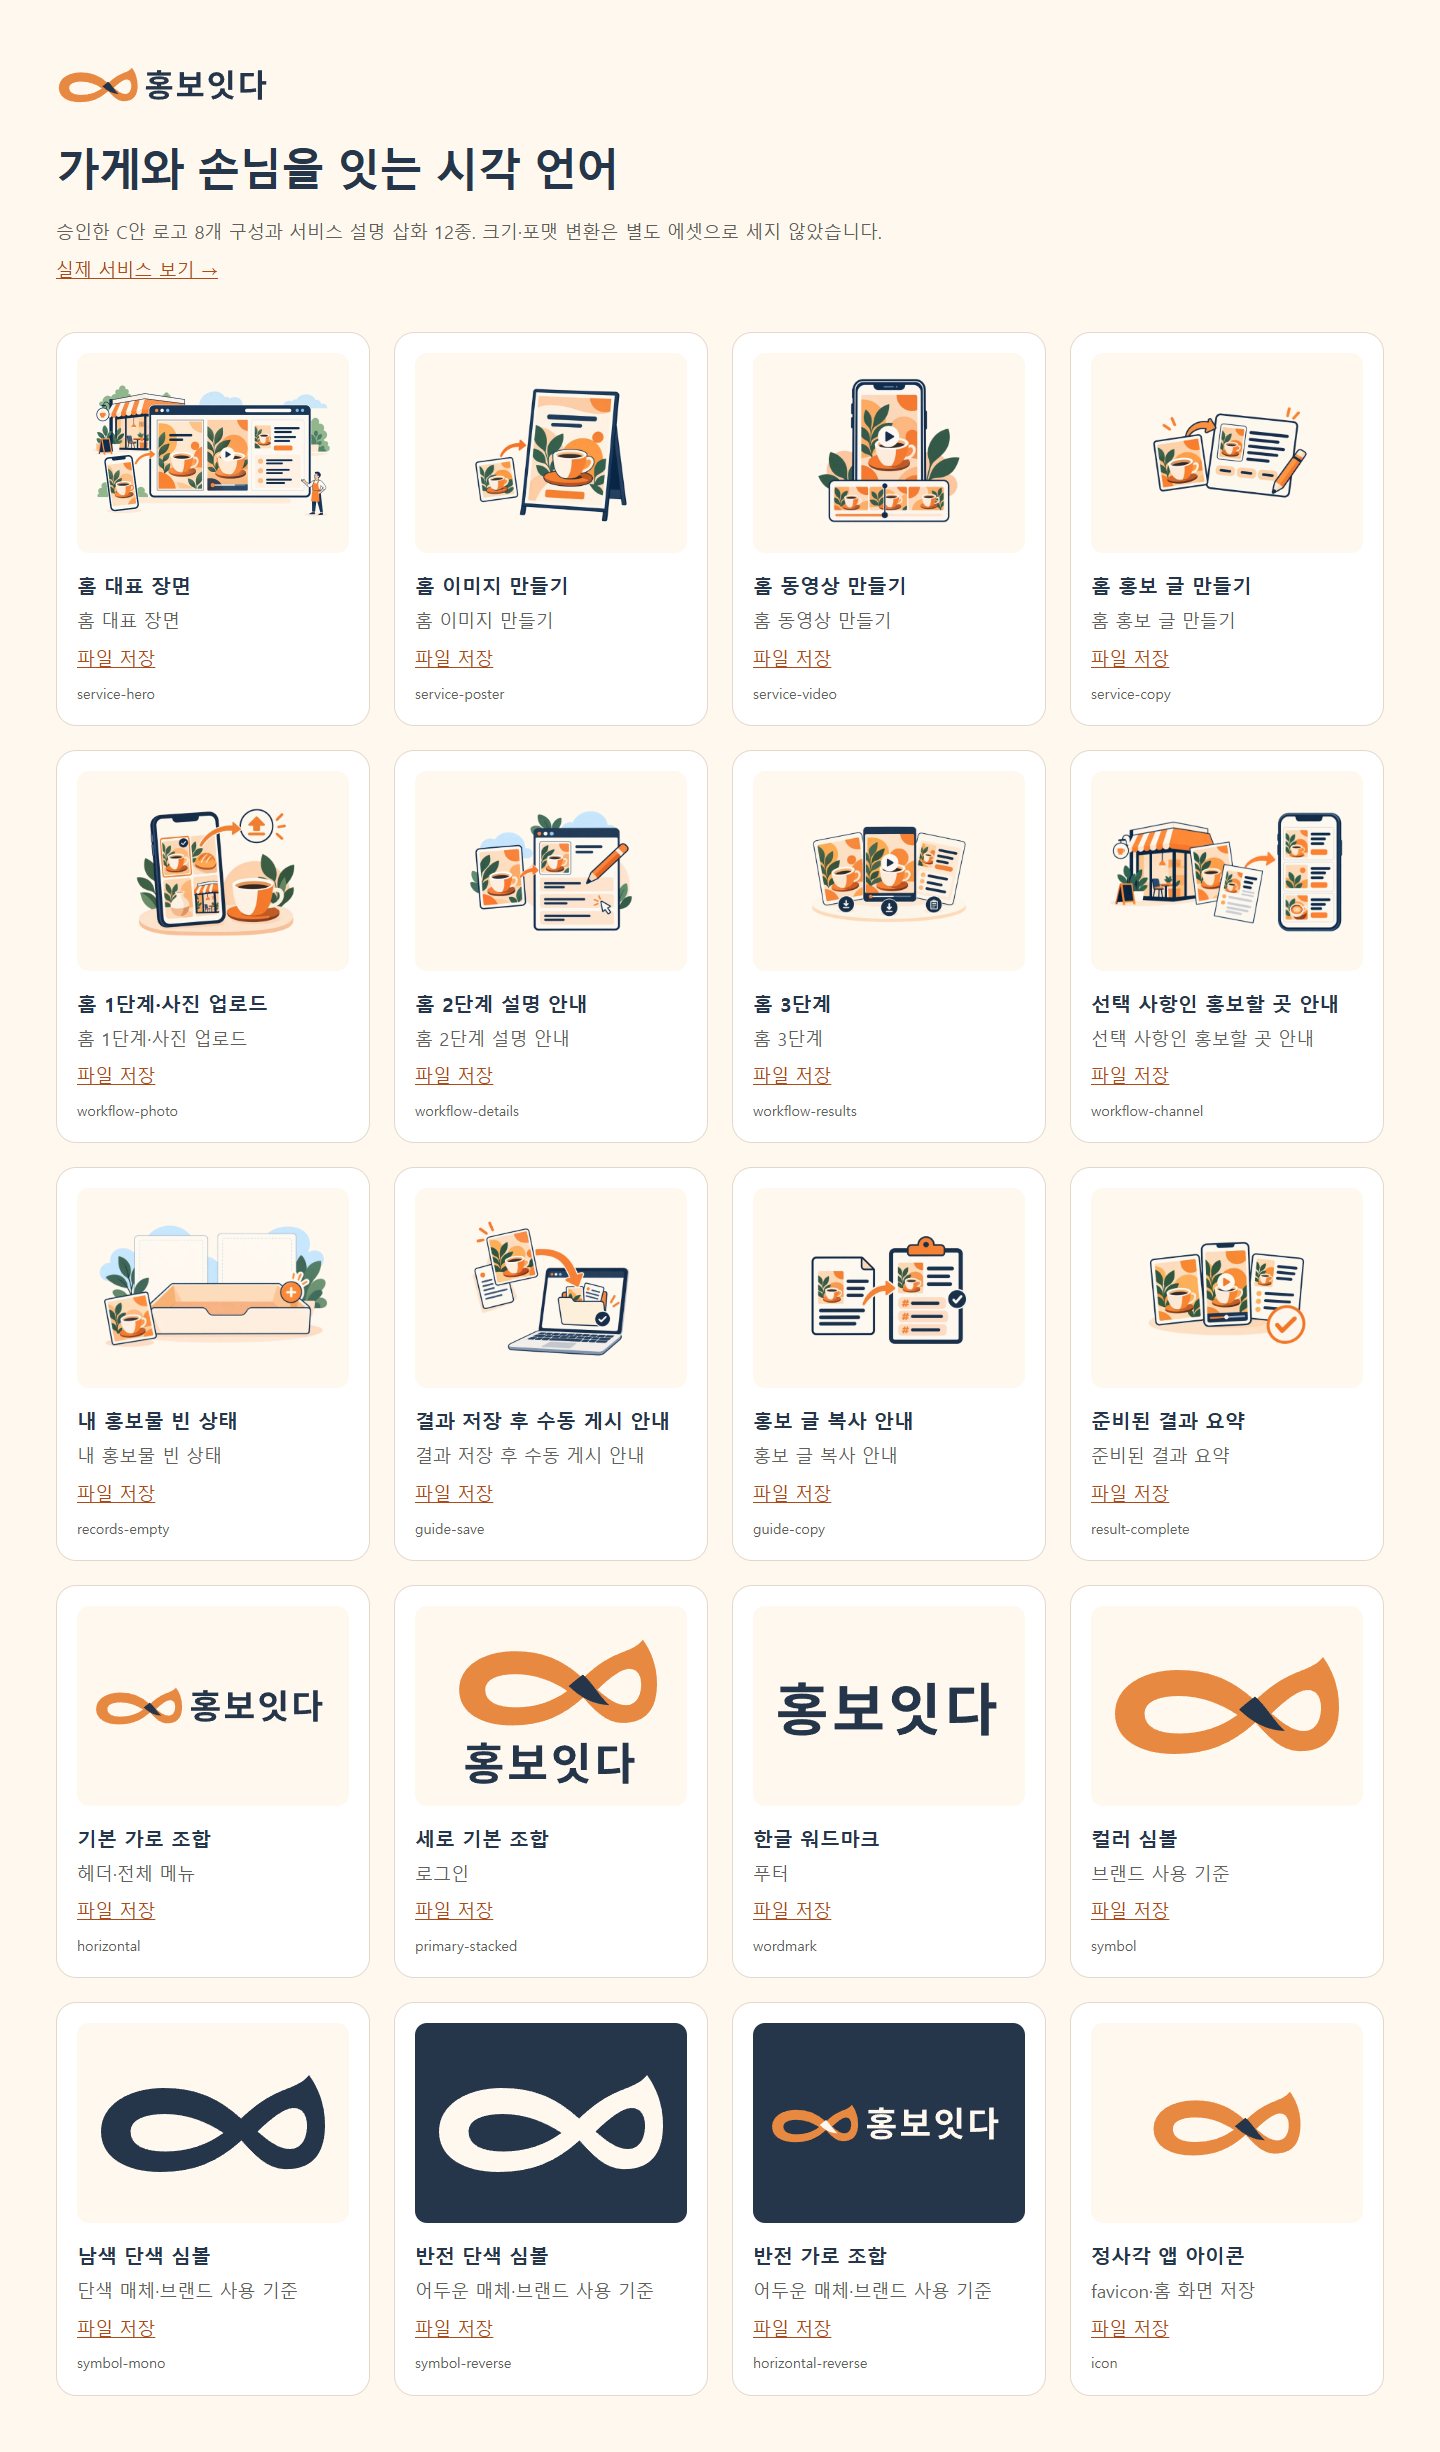
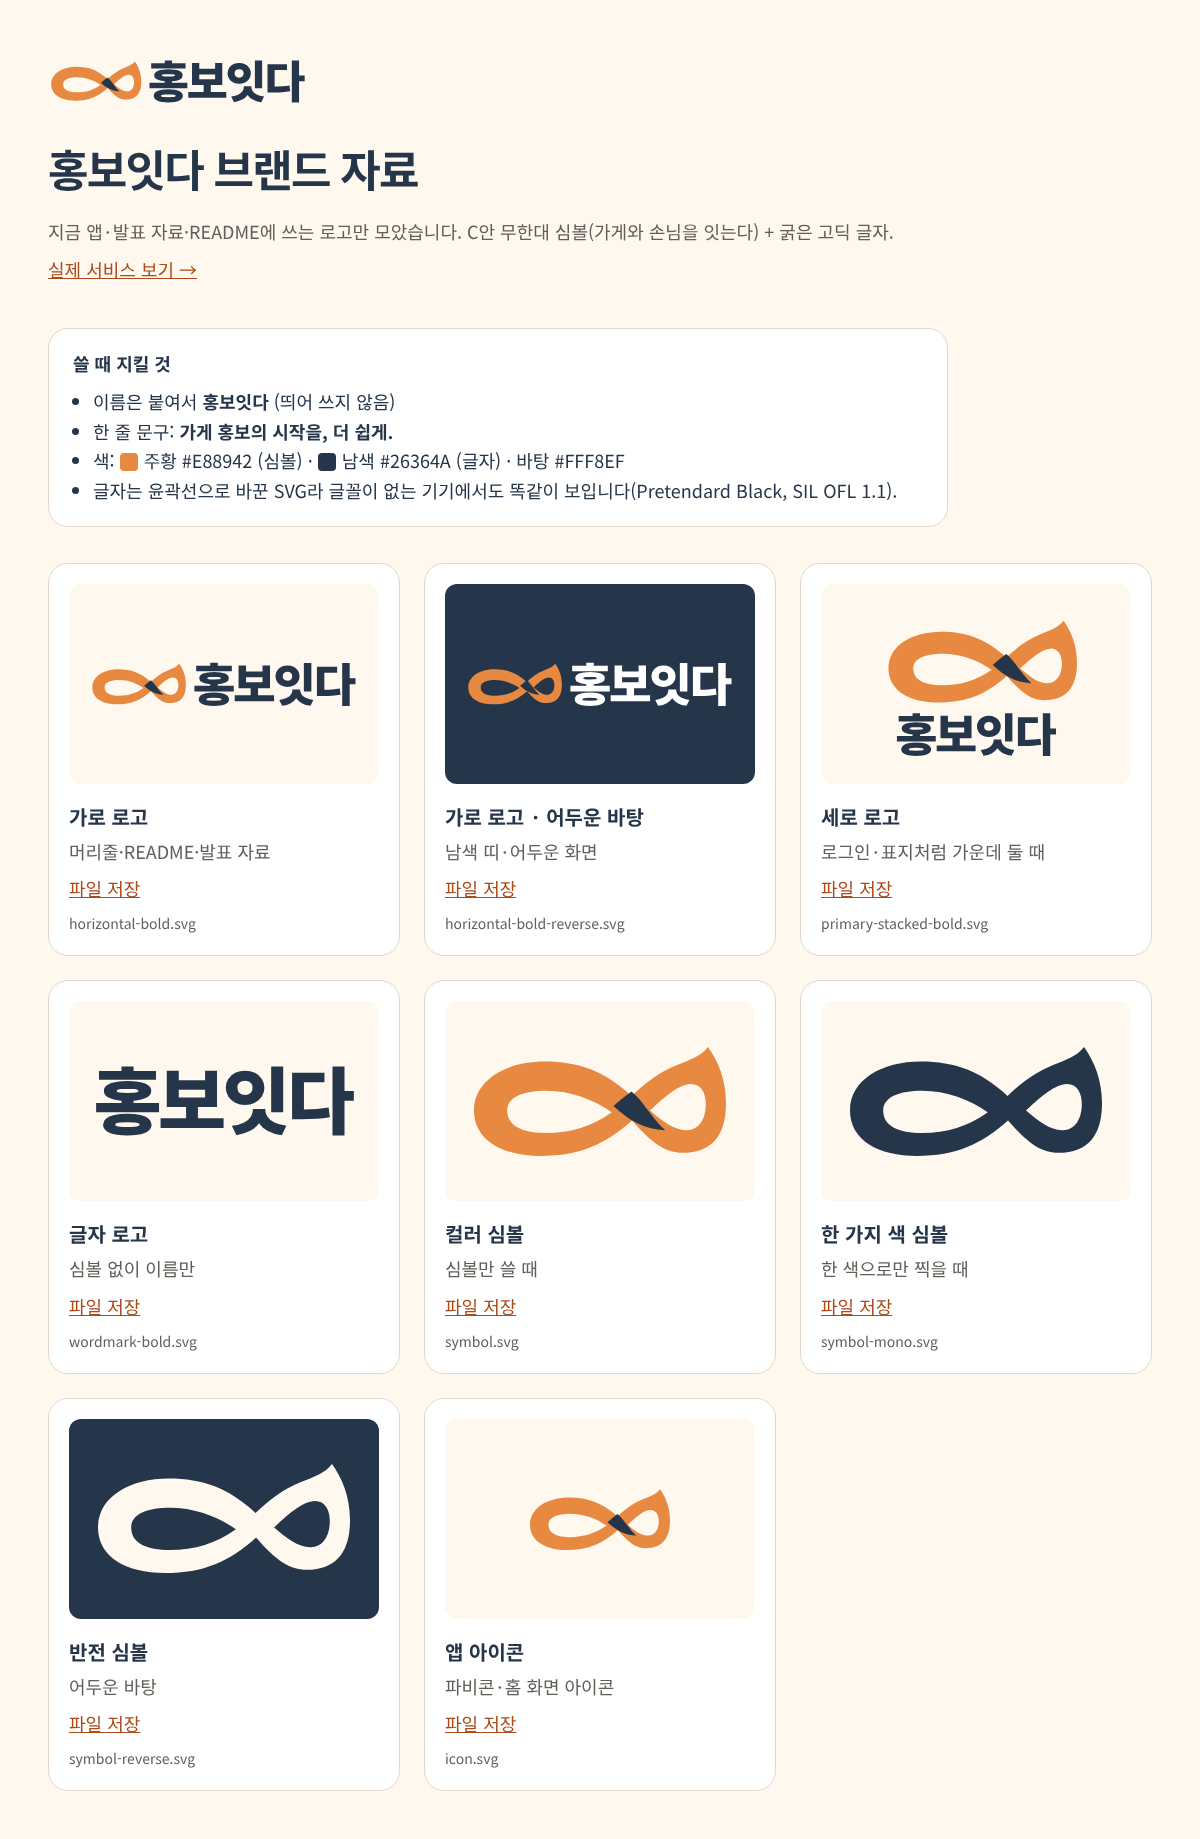
brand: 브랜드 자료 페이지를 지금 쓰는 로고만으로(폐기한 설명 그림 12종 뺌), 세로·글자 로고 굵은 고딕판 추가, 표기·색 규칙
Claude-Session: https://claude.ai/code/session_01G4Ro2EJJYNLyQEDLHLb7w2

diff --git a/ad_prototype/public/brand-library/index.html b/ad_prototype/public/brand-library/index.html
@@ -1,1 +1,18 @@
-<!doctype html><html lang="ko"><head><meta charset="UTF-8"><meta name="viewport" content="width=device-width,initial-scale=1"><meta name="robots" content="noindex,nofollow"><title>홍보잇다 — 브랜드·서비스 에셋</title><style>*{box-sizing:border-box}body{margin:0;padding:clamp(20px,4vw,56px);font:18px/1.65 'Malgun Gothic',sans-serif;color:#26364a;background:#fff8ef}header{max-width:900px;margin-bottom:40px}h1{font-size:clamp(28px,4vw,44px);letter-spacing:-.04em;margin:12px 0}header>img{width:220px;height:auto}a{color:#ad4a19;display:inline-block;min-height:44px;padding:8px 0}main{display:grid;grid-template-columns:repeat(auto-fit,minmax(min(100%,260px),1fr));gap:24px}article{min-width:0;border:1px solid #e4d7cc;background:white;border-radius:20px;padding:20px}.preview{display:flex;align-items:center;justify-content:center;height:200px;background:#fff8ef;border-radius:12px}.preview.dark{background:#26364a}.preview>img{width:100%;height:100%;object-fit:contain;padding:16px}h2{font-size:20px;margin:16px 0 4px}p{margin:0;color:#625e59}small{display:block;font-size:14px;color:#625e59;overflow-wrap:anywhere}a:focus-visible{outline:3px solid #255c9a;outline-offset:4px}</style></head><body><header><img src="/assets/branding/selected/horizontal.svg" alt="홍보잇다"><h1>가게와 손님을 잇는 시각 언어</h1><p>승인한 C안 로고 8개 구성과 서비스 설명 삽화 12종. 크기·포맷 변환은 별도 에셋으로 세지 않았습니다.</p><a href="/">실제 서비스 보기 →</a></header><main><article><div class="preview "><img src="/assets/illustrations/phase4b/service-hero.webp" alt="홈 대표 장면" width="480" height="320"></div><h2>홈 대표 장면</h2><p>홈 대표 장면</p><a href="/assets/illustrations/phase4b/service-hero.webp" download>파일 저장</a><small>service-hero</small></article><article><div class="preview "><img src="/assets/illustrations/phase4b/service-poster.webp" alt="홈 이미지 만들기" width="480" height="320"></div><h2>홈 이미지 만들기</h2><p>홈 이미지 만들기</p><a href="/assets/illustrations/phase4b/service-poster.webp" download>파일 저장</a><small>service-poster</small></article><article><div class="preview "><img src="/assets/illustrations/phase4b/service-video.webp" alt="홈 동영상 만들기" width="480" height="320"></div><h2>홈 동영상 만들기</h2><p>홈 동영상 만들기</p><a href="/assets/illustrations/phase4b/service-video.webp" download>파일 저장</a><small>service-video</small></article><article><div class="preview "><img src="/assets/illustrations/phase4b/service-copy.webp" alt="홈 홍보 글 만들기" width="480" height="320"></div><h2>홈 홍보 글 만들기</h2><p>홈 홍보 글 만들기</p><a href="/assets/illustrations/phase4b/service-copy.webp" download>파일 저장</a><small>service-copy</small></article><article><div class="preview "><img src="/assets/illustrations/phase4b/workflow-photo.webp" alt="홈 1단계·사진 업로드" width="480" height="320"></div><h2>홈 1단계·사진 업로드</h2><p>홈 1단계·사진 업로드</p><a href="/assets/illustrations/phase4b/workflow-photo.webp" download>파일 저장</a><small>workflow-photo</small></article><article><div class="preview "><img src="/assets/illustrations/phase4b/workflow-details.webp" alt="홈 2단계 설명 안내" width="480" height="320"></div><h2>홈 2단계 설명 안내</h2><p>홈 2단계 설명 안내</p><a href="/assets/illustrations/phase4b/workflow-details.webp" download>파일 저장</a><small>workflow-details</small></article><article><div class="preview "><img src="/assets/illustrations/phase4b/workflow-results.webp" alt="홈 3단계" width="480" height="320"></div><h2>홈 3단계</h2><p>홈 3단계</p><a href="/assets/illustrations/phase4b/workflow-results.webp" download>파일 저장</a><small>workflow-results</small></article><article><div class="preview "><img src="/assets/illustrations/phase4b/workflow-channel.webp" alt="선택 사항인 홍보할 곳 안내" width="480" height="320"></div><h2>선택 사항인 홍보할 곳 안내</h2><p>선택 사항인 홍보할 곳 안내</p><a href="/assets/illustrations/phase4b/workflow-channel.webp" download>파일 저장</a><small>workflow-channel</small></article><article><div class="preview "><img src="/assets/illustrations/phase4b/records-empty.webp" alt="내 홍보물 빈 상태" width="480" height="320"></div><h2>내 홍보물 빈 상태</h2><p>내 홍보물 빈 상태</p><a href="/assets/illustrations/phase4b/records-empty.webp" download>파일 저장</a><small>records-empty</small></article><article><div class="preview "><img src="/assets/illustrations/phase4b/guide-save.webp" alt="결과 저장 후 수동 게시 안내" width="480" height="320"></div><h2>결과 저장 후 수동 게시 안내</h2><p>결과 저장 후 수동 게시 안내</p><a href="/assets/illustrations/phase4b/guide-save.webp" download>파일 저장</a><small>guide-save</small></article><article><div class="preview "><img src="/assets/illustrations/phase4b/guide-copy.webp" alt="홍보 글 복사 안내" width="480" height="320"></div><h2>홍보 글 복사 안내</h2><p>홍보 글 복사 안내</p><a href="/assets/illustrations/phase4b/guide-copy.webp" download>파일 저장</a><small>guide-copy</small></article><article><div class="preview "><img src="/assets/illustrations/phase4b/result-complete.webp" alt="준비된 결과 요약" width="480" height="320"></div><h2>준비된 결과 요약</h2><p>준비된 결과 요약</p><a href="/assets/illustrations/phase4b/result-complete.webp" download>파일 저장</a><small>result-complete</small></article><article><div class="preview "><img src="/assets/branding/selected/horizontal.svg" alt="기본 가로 조합" width="480" height="320"></div><h2>기본 가로 조합</h2><p>헤더·전체 메뉴</p><a href="/assets/branding/selected/horizontal.svg" download>파일 저장</a><small>horizontal</small></article><article><div class="preview "><img src="/assets/branding/selected/primary-stacked.svg" alt="세로 기본 조합" width="480" height="320"></div><h2>세로 기본 조합</h2><p>로그인</p><a href="/assets/branding/selected/primary-stacked.svg" download>파일 저장</a><small>primary-stacked</small></article><article><div class="preview "><img src="/assets/branding/selected/wordmark.svg" alt="한글 워드마크" width="480" height="320"></div><h2>한글 워드마크</h2><p>푸터</p><a href="/assets/branding/selected/wordmark.svg" download>파일 저장</a><small>wordmark</small></article><article><div class="preview "><img src="/assets/branding/selected/symbol.svg" alt="컬러 심볼" width="480" height="320"></div><h2>컬러 심볼</h2><p>브랜드 사용 기준</p><a href="/assets/branding/selected/symbol.svg" download>파일 저장</a><small>symbol</small></article><article><div class="preview "><img src="/assets/branding/selected/symbol-mono.svg" alt="남색 단색 심볼" width="480" height="320"></div><h2>남색 단색 심볼</h2><p>단색 매체·브랜드 사용 기준</p><a href="/assets/branding/selected/symbol-mono.svg" download>파일 저장</a><small>symbol-mono</small></article><article><div class="preview dark"><img src="/assets/branding/selected/symbol-reverse.svg" alt="반전 단색 심볼" width="480" height="320"></div><h2>반전 단색 심볼</h2><p>어두운 매체·브랜드 사용 기준</p><a href="/assets/branding/selected/symbol-reverse.svg" download>파일 저장</a><small>symbol-reverse</small></article><article><div class="preview dark"><img src="/assets/branding/selected/horizontal-reverse.svg" alt="반전 가로 조합" width="480" height="320"></div><h2>반전 가로 조합</h2><p>어두운 매체·브랜드 사용 기준</p><a href="/assets/branding/selected/horizontal-reverse.svg" download>파일 저장</a><small>horizontal-reverse</small></article><article><div class="preview "><img src="/assets/branding/selected/icon.svg" alt="정사각 앱 아이콘" width="480" height="320"></div><h2>정사각 앱 아이콘</h2><p>favicon·홈 화면 저장</p><a href="/assets/branding/selected/icon.svg" download>파일 저장</a><small>icon</small></article></main></body></html>
+<!doctype html><html lang="ko"><head><meta charset="UTF-8"><meta name="viewport" content="width=device-width,initial-scale=1"><meta name="robots" content="noindex,nofollow"><title>홍보잇다 — 브랜드 자료</title><style>*{box-sizing:border-box}body{margin:0;padding:clamp(20px,4vw,56px);font:18px/1.65 Pretendard,'Apple SD Gothic Neo','Noto Sans KR','Malgun Gothic',sans-serif;color:#26364a;background:#fff8ef}header{max-width:900px;margin-bottom:36px}h1{font-size:clamp(28px,4vw,44px);letter-spacing:-.04em;margin:12px 0}header>img{width:260px;height:auto}a{color:#ad4a19;display:inline-block;min-height:44px;padding:8px 0}main{display:grid;grid-template-columns:repeat(auto-fit,minmax(min(100%,260px),1fr));gap:24px}article{min-width:0;border:1px solid #e4d7cc;background:white;border-radius:20px;padding:20px}.preview{display:flex;align-items:center;justify-content:center;height:200px;background:#fff8ef;border-radius:12px}.preview.dark{background:#26364a}.preview>img{width:100%;height:100%;object-fit:contain;padding:20px}h2{font-size:20px;margin:16px 0 4px}p{margin:0;color:#625e59}small{display:block;font-size:14px;color:#625e59;overflow-wrap:anywhere}.rules{max-width:900px;margin:0 0 36px;padding:20px 24px;background:white;border:1px solid #e4d7cc;border-radius:20px}.rules ul{margin:8px 0 0;padding-left:20px}.sw{display:inline-block;width:18px;height:18px;border-radius:4px;vertical-align:-3px;margin-right:6px}a:focus-visible{outline:3px solid #255c9a;outline-offset:4px}</style></head><body>
+<header><img src="/assets/branding/selected/horizontal-bold.svg" alt="홍보잇다"><h1>홍보잇다 브랜드 자료</h1><p>지금 앱·발표 자료·README에 쓰는 로고만 모았습니다. C안 무한대 심볼(가게와 손님을 잇는다) + 굵은 고딕 글자.</p><a href="/">실제 서비스 보기 →</a></header>
+<section class="rules"><b>쓸 때 지킬 것</b><ul>
+<li>이름은 붙여서 <b>홍보잇다</b> (띄어 쓰지 않음)</li>
+<li>한 줄 문구: <b>가게 홍보의 시작을, 더 쉽게.</b></li>
+<li>색: <span class="sw" style="background:#E88942"></span>주황 #E88942 (심볼) · <span class="sw" style="background:#26364A"></span>남색 #26364A (글자) · 바탕 #FFF8EF</li>
+<li>글자는 윤곽선으로 바꾼 SVG라 글꼴이 없는 기기에서도 똑같이 보입니다(Pretendard Black, SIL OFL 1.1).</li>
+</ul></section>
+<main>
+<article><div class="preview"><img src="/assets/branding/selected/horizontal-bold.svg" alt="가로 로고"></div><h2>가로 로고</h2><p>머리줄·README·발표 자료</p><a href="/assets/branding/selected/horizontal-bold.svg" download>파일 저장</a><small>horizontal-bold.svg</small></article>
+<article><div class="preview dark"><img src="/assets/branding/selected/horizontal-bold-reverse.svg" alt="가로 로고, 어두운 바탕"></div><h2>가로 로고 · 어두운 바탕</h2><p>남색 띠·어두운 화면</p><a href="/assets/branding/selected/horizontal-bold-reverse.svg" download>파일 저장</a><small>horizontal-bold-reverse.svg</small></article>
+<article><div class="preview"><img src="/assets/branding/selected/primary-stacked-bold.svg" alt="세로 로고"></div><h2>세로 로고</h2><p>로그인·표지처럼 가운데 둘 때</p><a href="/assets/branding/selected/primary-stacked-bold.svg" download>파일 저장</a><small>primary-stacked-bold.svg</small></article>
+<article><div class="preview"><img src="/assets/branding/selected/wordmark-bold.svg" alt="글자 로고"></div><h2>글자 로고</h2><p>심볼 없이 이름만</p><a href="/assets/branding/selected/wordmark-bold.svg" download>파일 저장</a><small>wordmark-bold.svg</small></article>
+<article><div class="preview"><img src="/assets/branding/selected/symbol.svg" alt="컬러 심볼"></div><h2>컬러 심볼</h2><p>심볼만 쓸 때</p><a href="/assets/branding/selected/symbol.svg" download>파일 저장</a><small>symbol.svg</small></article>
+<article><div class="preview"><img src="/assets/branding/selected/symbol-mono.svg" alt="남색 한 가지 색 심볼"></div><h2>한 가지 색 심볼</h2><p>한 색으로만 찍을 때</p><a href="/assets/branding/selected/symbol-mono.svg" download>파일 저장</a><small>symbol-mono.svg</small></article>
+<article><div class="preview dark"><img src="/assets/branding/selected/symbol-reverse.svg" alt="반전 심볼"></div><h2>반전 심볼</h2><p>어두운 바탕</p><a href="/assets/branding/selected/symbol-reverse.svg" download>파일 저장</a><small>symbol-reverse.svg</small></article>
+<article><div class="preview"><img src="/assets/branding/selected/icon.svg" alt="앱 아이콘"></div><h2>앱 아이콘</h2><p>파비콘·홈 화면 아이콘</p><a href="/assets/branding/selected/icon.svg" download>파일 저장</a><small>icon.svg</small></article>
+</main></body></html>

diff --git a/README.md b/README.md
@@ -9,7 +9,7 @@
 |---|---|
 | **앱 바로 써 보기** | https://ad-prototype-codyssey.vercel.app — 가입 없이 바로 시작. 사진이 없으면 홈의 예시로 시작 |
 | **발표 자료(웹 슬라이드)** | https://codyseeypresentation.vercel.app — 본편 12장 + 예상 질문 15장(A0~A14) |
-| 브랜드 자료 | https://ad-prototype-codyssey.vercel.app/brand-library/ — 로고·설명 그림 |
+| 브랜드 자료 | https://ad-prototype-codyssey.vercel.app/brand-library/ — 지금 쓰는 로고·색·표기 규칙 |
 | 개발 문서 | [ad_prototype/docs/README.md](ad_prototype/docs/README.md) |
 
 <img src="ad_prototype/docs/readme/qr.png" width="140" alt="앱 QR">
